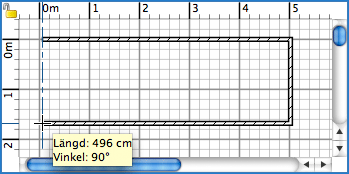
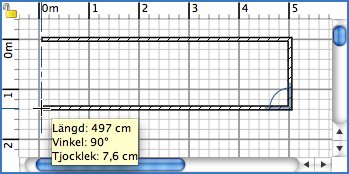
Updated help for new version

Changed region(s): [[0.0, 0.0, 0.9456, 1.0]]

diff --git a/SweetHome3D/src/com/eteks/sweethome3d/viewcontroller/resources/help/fr/editingPreferences.html b/SweetHome3D/src/com/eteks/sweethome3d/viewcontroller/resources/help/fr/editingPreferences.html
@@ -28,27 +28,45 @@
 	<tr>
 	<td><p>Pour &eacute;diter les pr&eacute;f&eacute;rences de Sweet Home 3D, choisissez <i>Sweet Home 3D &gt; Pr&eacute;f&eacute;rences...</i> sous
 	    Mac OS X ou <i>Fichier &gt; Pr&eacute;f&eacute;rences...</i> sous les autres syst&egrave;mes d'exploitation.</p>
-	  <p align="center"><img src="images/editingPreferences.png" width="300" height="233"></p>
+	  <p align="center"><img src="images/editingPreferences.png" width="424" height="306"></p>
 	  <p>Dans le panneau des pr&eacute;f&eacute;rences, vous pouvez choisir la <i>Langue</i> utilis&eacute;e dans l'interface utilisateur
 	    de Sweet Home 3D et l'<i>Unit&eacute;</i> utilis&eacute;e
 	    pour dessiner les r&egrave;gles et la grille du plan du
-	    logement, et pour afficher les longueurs. <br>
-	    La bo&icirc;te &agrave; cocher <i>Magn&eacute;tisme</i> active ou d&eacute;sactive le magn&eacute;tisme utilis&eacute; dans le plan du logement
-	    au cours du dessin des murs et le positionnement des meubles.<br>
-	    La bo&icirc;te &agrave; cocher <i>R&egrave;gles</i> permet de rendre visibles ou invisibles les r&egrave;gles affich&eacute;es
-	    en haut et &agrave; gauche du plan.<br>
-	    La bo&icirc;te &agrave; cocher <i>Grille</i> permet de rendre visible ou invisible la grile affich&eacute;e
-	    sous le plan.<br>
-La valeur de l'<i>Epaisseur des nouveaux murs</i> d&eacute;termine l'&eacute;paisseur des murs qui seront cr&eacute;&eacute;s
-	    une fois que le panneau des pr&eacute;f&eacute;rences sera ferm&eacute;.<br>
-	    La valeur de la <i>Hauteur des nouveaux murs</i> d&eacute;termine la hauteur des murs  qui seront
-	    cr&eacute;&eacute;s
-	    une fois que le panneau des pr&eacute;f&eacute;rences sera ferm&eacute;.</p>
-	  <p>Finallement, le bouton <i>R&eacute;initialiser l'affichage des conseils</i> r&eacute;initialise les r&eacute;ponses que vous avez
+	    logement, et pour afficher les longueurs. </p>
+	  <p> La bo&icirc;te &agrave; cocher <i>Magn&eacute;tisme</i> active ou d&eacute;sactive le magn&eacute;tisme utilis&eacute; dans
+	    le plan du logement au cours du dessin des murs et le positionnement des meubles.<br>
+	      La bo&icirc;te &agrave; cocher <i>R&egrave;gles</i> permet de rendre visibles ou invisibles les r&egrave;gles affich&eacute;es
+	      en haut et &agrave; gauche du plan.<br>
+	      La bo&icirc;te &agrave; cocher <i>Grille</i> permet de rendre visible ou invisible la grile affich&eacute;e
+	      sous le plan.<br>
+	      Les boutons radio <i>Ic&ocirc;nes du catalogue</i> et <i>Vue de dessus</i> permettent de choisir comment seront
+	      dessin&eacute;s les meubles dans le plan (voir les images ci-dessous).<br>
+Les boutons radio <i></i><i>Monochrome</i> et <i>Couleur ou texture du sol</i> permettent de choisir si les pi&egrave;ces doivent
+&ecirc;tre remplies dans le plan avec la couleur ou de la texture que vous avez choisies pour leur sol, ou en gris (en blanc
+&agrave; l'impression).<br>
+La liste d&eacute;roulante <i>Motif des murs dans le plan</i> permet de choisir le motif de remplissage des murs dans le
+plan.</p>
+	  <p>La valeur de l'<i>Epaisseur des nouveaux murs</i> d&eacute;termine l'&eacute;paisseur des murs qui seront cr&eacute;&eacute;s
+	        une fois que le panneau des pr&eacute;f&eacute;rences sera ferm&eacute;.<br>
+          La valeur de la <i>Hauteur des nouveaux murs</i> d&eacute;termine la hauteur des murs  qui seront
+	        cr&eacute;&eacute;s
+	        une fois que le panneau des pr&eacute;f&eacute;rences sera ferm&eacute;.</p>	  <p>Finallement, le bouton <i>R&eacute;initialiser l'affichage des conseils</i> r&eacute;initialise les r&eacute;ponses que vous avez
 	    donn&eacute;es aux bo&icirc;tes &agrave; cocher <i>Ne plus afficher ce conseil</i> affich&eacute;es dans les conseils
 	    qui apparaissent quand vous cliquez sur certains outils. Ceci implique que tous les dialogues o&ugrave; vous avez coch&eacute;
-	    cette option r&eacute;apparaitont au moment o&ugrave; vous cliquerez &agrave; nouveau sur ces outils.<br>
-        </p></td>
+	    cette option r&eacute;apparaitont au moment o&ugrave; vous cliquerez &agrave; nouveau sur ces outils.</p>
+	  <table border="0" align="center" cellpadding="0" cellspacing="5">
+        <tr align="center">
+          <td><img src="../images/defaultRendering.png" width="332" height="296"></td>
+          <td rowspan="2">&nbsp;&nbsp;&nbsp;</td>
+          <td><img src="../images/coloredRendering.png" width="332" height="296"></td>
+        </tr>
+        <tr>
+          <td align="center" valign="top">Rendu du plan par d&eacute;faut avec les ic&ocirc;nes du catalogue,<br>
+      les sols monochromes et les murs hachur&eacute;s</td>
+          <td align="center" valign="top">Rendu du plan avec les meubles vus de dessus,<br>
+      les sols color&eacute;s, et les murs en noir</td>
+        </tr>
+      </table></td>
 	</tr>
 </table>
 <div id="taskbox">
@@ -62,6 +80,16 @@ La valeur de l'<i>Epaisseur des nouveaux murs</i> d&eacute;termine l'&eacute;pai
           <td><p>Les pr&eacute;f&eacute;rences sont partag&eacute;es par toutes les fen&ecirc;tres Sweet Home 3D. Ainsi,
               la modification des pr&eacute;f&eacute;rences
               affectera toutes les fen&ecirc;tres ouvertes.</p>
+          </td>
+        </tr>
+        <tr valign="top">
+          <td><p>&#149;</p>
+          </td>
+          <td>
+            <p>Il est possible que la vue de dessus des meubles ne soit pas disponible &agrave; cause d'une configuration
+              limit&eacute;e
+              de votre syst&egrave;me. Dans ce cas, les boutons radio <i>Ic&ocirc;nes du catalogue</i> et <i>Vue de dessus</i> seront
+              d&eacute;sactiv&eacute;s.</p>
           </td>
         </tr>
         <tr valign="top">

diff --git a/SweetHome3D/src/com/eteks/sweethome3d/viewcontroller/resources/help/en/editingPreferences.html b/SweetHome3D/src/com/eteks/sweethome3d/viewcontroller/resources/help/en/editingPreferences.html
@@ -28,24 +28,40 @@
 	<tr>
 	<td><p>To edit Sweet Home 3D preferences, choose <i>Sweet Home 3D &gt; Preferences...</i> under Mac OS X or <i>File &gt; Preferences...</i> under
 	    other systems.</p>
-	  <p align="center"><img src="images/editingPreferences.png" width="244" height="230"></p>
+	  <p align="center"><img src="images/editingPreferences.png" width="338" height="305"></p>
 	  <p>In the preferences pane, you can choose the <i>Language</i> used in Sweet Home 3D user interface and the <i>Unit</i> used
-	    to draw  the rulers and grid of the home plan, and to display lengths and areas.<br>
-	    The <i>Magnetism</i> check
-	    box enables or disables the magnetism used in the home plan during <a href="drawingWalls.html">walls drawing</a> and <a href="editingFurniture.html">furniture
-	    placing</a>.<br>
-	    The <i>Rulers</i> check box allows to make the rulers around the plan visible or invisible.<br>
-	    The <i>Grid</i> check box allows to make the grid in the plan visible or invisible.<br>
-	      The <i>New walls thickness</i> value sets the thickness of all the walls that will be created once the preferences
-	      pane will be closed.<br>
-	      The <i>New  walls height</i> value 
-	      sets the height of all the walls that will be created once the preferences pane will
-      be closed.                                                                                                                                                                                                                                                                                                                                                                                                                                                                                                                                                                                                                                                                                                                                                                                                                                                                                                                                                                                                                                       </p>
-	  <p>Finally, the <i>Reset the display of tips</i> button resets the answers you gave to the check box <i>Do not display
+	    to draw  the rulers and grid of the home plan, and to display lengths and areas.</p>
+	  <p>	      The <i>Magnetism</i> check
+	      box enables or disables the magnetism used in the home plan during <a href="drawingWalls.html">walls drawing</a> and <a href="editingFurniture.html">furniture
+	      placing</a>.<br>
+	      The <i>Rulers</i> check box allows to make the rulers around the plan visible or invisible.<br>
+	      The <i>Grid</i> check box allows to make the grid in the plan visible or invisible.<br>
+	      The <i>Catalog icons</i> and  <i>Top view</i> radio buttons let you choose how the furniture should be drawn in
+	      the plan (see images below).<br>
+	      The <i>Monochrome</i> and <i>Floor color or texture</i> radio buttons let you choose whether rooms should be drawn
+	      in plan filled with the color or texture you chose for their floor, or with a grey color (printed as white).<br>
+	      The <i>Wall pattern in plan</i> combo box lets you choose the pattern used to fill walls in plan.</p>
+	  <p>	      The <i>New walls thickness</i> value sets the thickness of all the walls that will be created once the preferences
+	        pane will be closed.<br>
+          The <i>New  walls height</i> value 
+	        sets the height of all the walls that will be created once the preferences pane will
+        be closed. </p>	  <p>Finally, the <i>Reset the display of tips</i> button resets the answers you gave to the check box <i>Do not display
 	      this tip again</i> shown in the tips dialog boxes displayed when you click on some tools. This means that all the
 	      dialog boxes where you selected this check box  will appear
-	    again.<br>
-        </p></td>
+	    again.</p>
+	  <table border="0" align="center" cellpadding="0" cellspacing="5">
+        <tr align="center">
+          <td><img src="../images/defaultRendering.png" width="332" height="296"></td>
+          <td rowspan="2">&nbsp;&nbsp;&nbsp;</td>
+          <td><img src="../images/coloredRendering.png" width="332" height="296"></td>
+        </tr>
+        <tr>
+          <td align="center" valign="top">Default plan rendering with catalog icons,<br>
+            monochrome floors and walls filled with a hatch pattern</td>
+          <td align="center" valign="top">Plan rendering with top view furniture icons,<br>
+            floor colors, and walls filled with black color</td>
+        </tr>
+      </table>	  </td>
 	</tr>
 </table>
 <div id="taskbox">
@@ -59,6 +75,14 @@
 	    <td><p>Preferences are shared by all Sweet Home 3D windows. Therefore, editing preferences will have an effect on all
 	        opened windows.</p>
 	      </td>
+	    </tr>
+	  <tr valign="top">
+        <td><p>&#149;</p>
+        </td>
+        <td>
+          <p>Furniture icons seen from top  may not be available due to a limited configuration of your system. In
+            that case, the <i>Catalog icons</i> and <i>Top view</i> radio buttons will be  disabled.</p>
+        </td>
 	    </tr>
 	  <tr valign="top"><td width="16"><p>&#149;</p></td><td><p>Magnetism set
 	        in preferences pane can be temporarily toggled in the home plan, by pressing the <i>shift</i> key.</p></td></tr>

diff --git a/SweetHome3D/src/com/eteks/sweethome3d/viewcontroller/resources/help/en/drawingWalls.html b/SweetHome3D/src/com/eteks/sweethome3d/viewcontroller/resources/help/en/drawingWalls.html
@@ -33,15 +33,18 @@
 	        walls</i> tool</p>
 	    </blockquote>	  
 	  <p>Click in the home plan at the start point of the new wall, then click or double-click in the plan at its end point.
-	    As long as you don't double-click or press the <i>Escape</i> key, each new click indicates the opposite point of the current
-	    wall and the start point of the next wall. While drawing a set of walls, the start point of the first wall will
-	    be
+	    As long as you don't double-click or press the <i>Escape</i> key, each new click indicates the opposite point of the
+	    current wall and the start point of the next wall. While drawing a set of walls, the start point of the first wall
+	    will be
 	    attached to
 	    an existing
 	    wall start or end point if you
 	    click on that point, and the last  wall will be attached to another wall start or end point by
-	    double-clicking on that point. The clicked points are at the middle of the thickness of the drawn walls.<br>
-	    Walls are simultaneously drawn in the plan and in the 3D view.</p>
+	    double-clicking on that point. The clicked points are at the middle of the thickness of the drawn walls&nbsp;; the
+	     thickness and the  height of new walls can be changed in the <a href="editingPreferences.html">preferences</a> pane.<br>
+	    If you already <a href="drawingRooms.html">drew a room</a>, you can also create the
+	    walls around it by  double-clicking anywhere in that room. <br>
+      Walls are simultaneously drawn in the plan and in the 3D view.                                                                                                                                                                                                                                                                                                                                                                                                                                                                                                                                                                                                                                                                                                                                                                                                                                                                                                                                                                                                                                       </p>
 	  <p align="center"><img src="images/drawingWalls.png" alt="Drawing walls" width="349" height="174"></p>	  
 	  <p>To end
 	    the drawing of walls, choose <i>Plan &gt; Select </i> or select the <i>Select</i> tool.</p>
@@ -69,7 +72,13 @@
           <p>&#149;</p>
         </td>
         <td>
-          <p>To help you draw walls precisely, use wall length tooltip and alignment  lines.</p>
+          <p>To help you draw walls precisely, use the wall tooltip and the alignment  lines. If you press the <i>enter</i> key
+            when the plan has the focus, the values displayed in the tooltip will become editable to let you enter with the
+            keyboard the length, the angle and the thickness of the current wall (if you didn't start any wall yet,
+            the tooltip will display the coordinates of the start point of the new wall). Use the <i>up arrow</i>, <i>down
+            arrow</i> or <i>tab</i> keys
+            to edit an other value and press again the <i>enter</i> key to confirm the values you entered. If you want to
+            use again the mouse to draw walls, simply move it over the plan.</p>
         </td>
 	    </tr>
 	  <tr valign="top">
@@ -106,7 +115,7 @@
         </td>
         <td>
           <p>The unit displayed by default in tooltips, plan rulers and plan grid depends on your country. You may switch
-            to Centimeter or Inch in the <a href="editingPreferences.html">preferences</a> pane.          
+            to Centimeter, Meter, Millimeter  or Inch in the <a href="editingPreferences.html">preferences</a> pane.          
         </td>
 	    </tr>
 	  <tr valign="top">

diff --git a/SweetHome3D/src/com/eteks/sweethome3d/viewcontroller/resources/help/fr/drawingWalls.html b/SweetHome3D/src/com/eteks/sweethome3d/viewcontroller/resources/help/fr/drawingWalls.html
@@ -39,7 +39,10 @@
 	    d'un ensemble de murs, l'extr&eacute;mit&eacute; de d&eacute;part du premier mur sera attach&eacute;e &agrave; l'extr&eacute;mit&eacute; d'un
 	    mur existant si vous cliquez sur cette extr&eacute;mit&eacute;, et le dernier mur sera attach&eacute; &agrave; l'extr&eacute;mit&eacute; d'un
 	    autre mur si vous double-cliquez sur cette extr&eacute;mit&eacute;. Les extr&eacute;mit&eacute;s des murs que vous d&eacute;signez &agrave; chaque
-	    clic sont au milieu de l'&eacute;paisseur des murs dessin&eacute;s.<br>
+	    clic sont au milieu de l'&eacute;paisseur des murs dessin&eacute;s&nbsp;; l'&eacute;paisseur et la hauteur  des nouveaux
+	    murs peut &ecirc;tre modifi&eacute;es dans le panneau des <a href="editingPreferences.html">pr&eacute;f&eacute;rences</a>.<br>
+Si vous avez d&eacute;j&agrave; <a href="drawingRooms.html">dessin&eacute; une pi&egrave;ce</a>, vous pouvez cr&eacute;er aussi
+les murs autour de celle-ci en double-cliquant n'importe o&ugrave; dans cette pi&egrave;ce.<br>
 	    Les murs sont dessin&eacute;s simultan&eacute;ment dans le plan et dans la vue 3D.</p>
 	  <p align="center"><img src="images/drawingWalls.png" alt="Drawing walls" width="349" height="176"></p>	  
 	  <p>Pour terminer le dessin des murs, choisissez <i>Plan &gt; S&eacute;lectionner</i> ou s&eacute;lectionnez l'outil <i>S&eacute;lectionner</i> (ou
@@ -68,8 +71,15 @@
           <p>&#149;</p>
         </td>
         <td>
-          <p>Pour vous aider &agrave; dessiner les murs avec pr&eacute;cision, utilisez l'info-bulle indiquant la longueur
-            du mur et les lignes d'alignement sur les autres murs.</p>
+          <p>Pour vous aider &agrave; dessiner les murs avec pr&eacute;cision, utilisez l'info-bulle associ&eacute;e
+            au mur et les lignes d'alignement sur les autres murs. Si vous appuyez sur la touche <i>entr&eacute;e</i> quand
+            le plan a le focus, les valeurs affich&eacute;es dans l'info-bulle deviendront &eacute;ditables pour vous permettre
+            d'entrer au clavier la longueur, l'angle et l'&eacute;paisseur du mur en cours  (si vous n'avez d&eacute;but&eacute; aucun
+            mur, l'info-bulle affichera les coordonn&eacute;es du point de d&eacute;part du nouveau mur). Utilisez les touches <i>fl&egrave;che
+            haut</i>, <i>fl&egrave;che
+            bas</i>            ou <i>tab</i> pour &eacute;diter une autre valeur et appuyez &agrave; nouveau sur la touche <i>entr&eacute;e</i>            pour
+            confirmer les valeurs saisies. Si vous voulez r&eacute;utiliser la souris pour dessiner les murs, d&eacute;placez
+            simplement la souris dans le plan.</p>
         </td>
 	    </tr>
 	  <tr valign="top">
@@ -107,7 +117,8 @@
         </td>
         <td>
           <p>L'unit&eacute; affich&eacute;e par d&eacute;faut dans les info-bulles, les r&egrave;gles et la grille du plan
-            d&eacute;pend de votre pays. Vous pouvez choisir entre le Centim&egrave;tre et le Pouce dans le panneau des <a href="editingPreferences.html">pr&eacute;f&eacute;rences</a>. </td>
+            d&eacute;pend de votre pays. Vous pouvez choisir entre le Centim&egrave;tre, le M&egrave;tre, le Millim&egrave;tre  et
+            le Pouce dans le panneau des <a href="editingPreferences.html">pr&eacute;f&eacute;rences</a>. </td>
 	    </tr>
 	  <tr valign="top">
         <td>

diff --git a/SweetHome3D/src/com/eteks/sweethome3d/viewcontroller/resources/help/fr/drawingRooms.html b/SweetHome3D/src/com/eteks/sweethome3d/viewcontroller/resources/help/fr/drawingRooms.html
@@ -109,12 +109,28 @@
           <p>&#149;</p>
         </td>
         <td>
-          <p>Pour vous aider &agrave; dessiner les pi&egrave;ces avec pr&eacute;cision, utilisez les lignes d'alignement
-             et les guides ponctuels qui apparaissent &agrave; l'approche de l'intersection des murs. Si vous voulez d&eacute;sactiver
-             le magn&eacute;tisme appliqu&eacute; &agrave; l'intersection des murs et &agrave; l'angle des lignes que vous dessinez,
-             maintenez la touche
-            <i>majuscule</i> enfonc&eacute;e pendant le dessin, ou  d&eacute;sactivez le magn&eacute;tisme dans le panneau
-            des<a href="editingPreferences.html"> pr&eacute;f&eacute;rences</a>.</p>
+          <p>Pour vous aider &agrave; dessiner les pi&egrave;ces avec pr&eacute;cision, utilisez les info-bulles, les lignes
+            d'alignement et les guides ponctuels qui apparaissent &agrave; l'approche de l'intersection des murs. Si vous
+            appuyez sur la touche <i>entr&eacute;e</i> quand le plan a le focus, les valeurs affich&eacute;es dans l'info-bulle
+            deviendront &eacute;ditables pour vous permettre d'entrer au clavier la longueur et l'angle 
+            du segment en cours (si vous n'avez pas encore  d&eacute;sign&eacute; le premier point de la pi&egrave;ce, l'info-bulle
+            affichera les coordonn&eacute;es
+            de ce point). Utilisez les touches <i>fl&egrave;che haut</i>, <i>fl&egrave;che
+            bas</i> ou <i>tab</i> pour &eacute;diter
+            une autre valeur et appuyez &agrave; nouveau sur la touche <i>entr&eacute;e</i> pour confirmer les valeurs saisies.
+            Si vous voulez r&eacute;utiliser la souris pour dessiner la pi&egrave;ce, d&eacute;placez simplement la souris
+            dans le plan.</p>
+        </td>
+	    </tr>
+	  <tr valign="top">
+        <td>
+          <p>&#149;</p>
+        </td>
+        <td>
+          <p> Si vous voulez d&eacute;sactiver
+            le magn&eacute;tisme appliqu&eacute; &agrave; l'intersection des murs et &agrave; l'angle des lignes que vous
+            dessinez, maintenez la touche <i>majuscule</i> enfonc&eacute;e pendant le dessin, ou d&eacute;sactivez le magn&eacute;tisme
+            dans le panneau des<a href="editingPreferences.html"> pr&eacute;f&eacute;rences</a>.</p>
         </td>
 	    </tr>
 	  <tr valign="top">
@@ -133,7 +149,8 @@
         </td>
         <td>
           <p>L'unit&eacute; affich&eacute;e par d&eacute;faut dans les pi&egrave;ces, les r&egrave;gles et la grille du plan
-            d&eacute;pend de votre pays. Vous pouvez choisir entre le Centim&egrave;tre et le Pouce dans le panneau des <a href="editingPreferences.html">pr&eacute;f&eacute;rences</a>.
+            d&eacute;pend de votre pays. Vous pouvez choisir entre le Centim&egrave;tre, le M&egrave;tre, le Millim&egrave;tre  et
+            le Pouce dans le panneau des <a href="editingPreferences.html">pr&eacute;f&eacute;rences</a>.
             Si l'unit&eacute; choisie est le Pouce, la superficie des pi&egrave;ces sera affich&eacute;e en pied carr&eacute; (sq ft), sinon elle sera
             affich&eacute;e en m&egrave;tre carr&eacute; (m&sup2;).</td>
 	    </tr>

diff --git a/SweetHome3D/src/com/eteks/sweethome3d/viewcontroller/resources/help/en/drawingRooms.html b/SweetHome3D/src/com/eteks/sweethome3d/viewcontroller/resources/help/en/drawingRooms.html
@@ -36,7 +36,7 @@
 	  <ul>
 	    <li>click at each corner of the room, then double-click at its last point
 	      or press the <i>Escape</i> key after you added the last point, </li>
-	    <li>double-click anywhere inside an existing <b>closed</b> surface (i.e. surrounded by walls).</li>
+	    <li>double-click anywhere inside an existing <b>closed</b> surface (i.e. surrounded by <a href="drawingWalls.html">walls</a>).</li>
 	  </ul>
 	  <p>When you draw a room point by point under  magnetism activated, a colored point guide will show up  to help you click
 	    at each corner of the room. A room created with a double click will cover the floor area from wall to wall surrounding
@@ -104,9 +104,25 @@
           <p>&#149;</p>
         </td>
         <td>
-          <p>To help you draw rooms precisely, use  alignment  lines and wall intersection point guides. If you want to disable
-            the activated magnetism  on wall intersection points and for the angles of the lines you draw, hold
-            down the <i>shift</i> key while drawing, or by disabling magnetism in the <a href="editingPreferences.html">preferences</a> pane.</p>
+          <p>To help you draw rooms precisely, use  tooltips, alignment  lines and wall intersection point guides. If you
+            press the <i>enter</i> key
+            when the plan has the focus, the values displayed in the tooltip will become editable to let you enter with the
+            keyboard the length and the angle  of the current segment (if you didn't indicate
+            the first
+            point of the room yet, the tooltip will display the coordinates of that point). Use the
+            up arrow, down arrow
+            or <i>tab</i> keys
+            to edit an other value and press again the <i>enter</i> key to confirm the values you entered. If you want to
+            use again the mouse to draw the room, simply move it over the plan.</p>
+        </td>
+	    </tr>
+	  <tr valign="top">
+        <td>
+          <p>&#149;</p>
+        </td>
+        <td>
+          <p>If you want to disable the activated magnetism on wall intersection points and for the angles of the lines you
+            draw, hold down the <i>shift</i> key while drawing, or by disabling magnetism in the <a href="editingPreferences.html">preferences</a> pane.</p>
         </td>
 	    </tr>
 	  <tr valign="top">
@@ -124,8 +140,9 @@
         </td>
         <td>
           <p>The unit displayed by default in the room, plan rulers and plan grid depends on your country. You may switch
-            to Centimeter or Inch in the <a href="editingPreferences.html">preferences</a> pane. If Inch is the chosen
-            unit,  the room areas will be displayed in square feet, otherwise they will be displayed in square meter.</td>
+            to Centimeter, Meter, Millimeter or Inch in the <a href="editingPreferences.html">preferences</a> pane. If Inch
+            is the chosen unit, the room areas will be displayed in square feet, otherwise they will be displayed in square
+            meter.</td>
 	    </tr>
 	  <tr valign="top">
         <td>

diff --git a/SweetHome3D/src/com/eteks/sweethome3d/viewcontroller/resources/help/fr/editingRooms.html b/SweetHome3D/src/com/eteks/sweethome3d/viewcontroller/resources/help/fr/editingRooms.html
@@ -173,7 +173,8 @@
             </td>
             <td>
               <p>L'unit&eacute; affich&eacute;e par d&eacute;faut dans les pi&egrave;ces, les r&egrave;gles et la grille
-                du plan d&eacute;pend de votre pays. Vous pouvez choisir entre le Centim&egrave;tre et le Pouce dans le panneau
+                du plan d&eacute;pend de votre pays. Vous pouvez choisir entre le Centim&egrave;tre, le M&egrave;tre, le
+                Millim&egrave;tre  et le Pouce dans le panneau
                 des <a href="editingPreferences.html">pr&eacute;f&eacute;rences</a>. Si l'unit&eacute; choisie est le Pouce,
                 la superficie des pi&egrave;ces sera affich&eacute;e en pied carr&eacute; (sq ft), sinon elle sera affich&eacute;e
               en m&egrave;tre carr&eacute; (m&sup2;).</td>

diff --git a/SweetHome3D/src/com/eteks/sweethome3d/viewcontroller/resources/help/fr/editingFurniture.html b/SweetHome3D/src/com/eteks/sweethome3d/viewcontroller/resources/help/fr/editingFurniture.html
@@ -195,7 +195,8 @@ Les meubles modifi&eacute;s avec la souris sont dessin&eacute;s simultan&eacute;
             <td>
               <p>L'unit&eacute; affich&eacute;e par d&eacute;faut dans les info-bulles et le panneau d'un meuble
                 d&eacute;pend
-              de votre pays. Vous pouvez choisir entre le Centim&egrave;tre et le Pouce dans le panneau des <a href="editingPreferences.html">pr&eacute;f&eacute;rences</a>.</td>
+              de votre pays. Vous pouvez choisir entre le Centim&egrave;tre, le M&egrave;tre, le Millim&egrave;tre  et le
+              Pouce dans le panneau des <a href="editingPreferences.html">pr&eacute;f&eacute;rences</a>.</td>
           </tr>
           <tr valign="top">
             <td>

diff --git a/SweetHome3D/src/com/eteks/sweethome3d/viewcontroller/resources/help/fr/editingWalls.html b/SweetHome3D/src/com/eteks/sweethome3d/viewcontroller/resources/help/fr/editingWalls.html
@@ -165,8 +165,8 @@
             </td>
             <td>
               <p>L'unit&eacute; affich&eacute;e par d&eacute;faut dans l'info-bulle de longueur et le panneau d'un mur d&eacute;pend
-                de votre pays. Vous pouvez choisir entre le Centim&egrave;tre et le
-              Pouce dans le panneau des <a href="editingPreferences.html">pr&eacute;f&eacute;rences</a>.</td>
+                de votre pays. Vous pouvez choisir entre le Centim&egrave;tre, le M&egrave;tre, le Millim&egrave;tre  et
+              le Pouce dans le panneau des <a href="editingPreferences.html">pr&eacute;f&eacute;rences</a>.</td>
           </tr>
           <tr valign="top">
             <td>

diff --git a/SweetHome3D/src/com/eteks/sweethome3d/viewcontroller/resources/help/fr/importingFurniture.html b/SweetHome3D/src/com/eteks/sweethome3d/viewcontroller/resources/help/fr/importingFurniture.html
@@ -167,7 +167,8 @@
             </td>
             <td>
               <p>L'unit&eacute; affich&eacute;e par d&eacute;faut dans l'assistant importation de meubles d&eacute;pend
-              de votre pays. Vous pouvez choisir entre le Centim&egrave;tre et le Pouce dans le panneau des <a href="editingPreferences.html">pr&eacute;f&eacute;rences</a>.</td>
+              de votre pays. Vous pouvez choisir entre le Centim&egrave;tre, le M&egrave;tre, le Millim&egrave;tre et le Pouce dans le
+              panneau des <a href="editingPreferences.html">pr&eacute;f&eacute;rences</a>.</td>
           </tr>
           <tr valign="top">
             <td>

diff --git a/SweetHome3D/src/com/eteks/sweethome3d/viewcontroller/resources/help/fr/editingDimensions.html b/SweetHome3D/src/com/eteks/sweethome3d/viewcontroller/resources/help/fr/editingDimensions.html
@@ -137,7 +137,8 @@
             </td>
             <td>
               <p>La longueur affich&eacute;e sur les cotes est exprim&eacute;e par d&eacute;faut dans l'unit&eacute; de votre
-              pays. Vous pouvez choisir entre le Centim&egrave;tre et le Pouce dans le panneau des <a href="editingPreferences.html">pr&eacute;f&eacute;rences</a>.</td>
+              pays. Vous pouvez choisir entre le Centim&egrave;tre, le M&egrave;tre, le Millim&egrave;tre  et le Pouce dans
+              le panneau des <a href="editingPreferences.html">pr&eacute;f&eacute;rences</a>.</td>
           </tr>
         </table>
       </td>

diff --git a/SweetHome3D/src/com/eteks/sweethome3d/viewcontroller/resources/help/fr/importingBackground.html b/SweetHome3D/src/com/eteks/sweethome3d/viewcontroller/resources/help/fr/importingBackground.html
@@ -140,7 +140,8 @@
             <td>
               <p>L'unit&eacute; affich&eacute;e par d&eacute;faut dans  l'assistant
                 image d'arri&egrave;re plan  d&eacute;pend de votre pays. Vous
-              pouvez choisir entre le Centim&egrave;tre et le Pouce dans le panneau des <a href="editingPreferences.html">pr&eacute;f&eacute;rences</a>.</td>
+              pouvez choisir entre le Centim&egrave;tre, le M&egrave;tre, le Millim&egrave;tre  et le Pouce dans le panneau
+              des <a href="editingPreferences.html">pr&eacute;f&eacute;rences</a>.</td>
           </tr>
         </table>
       </td>
